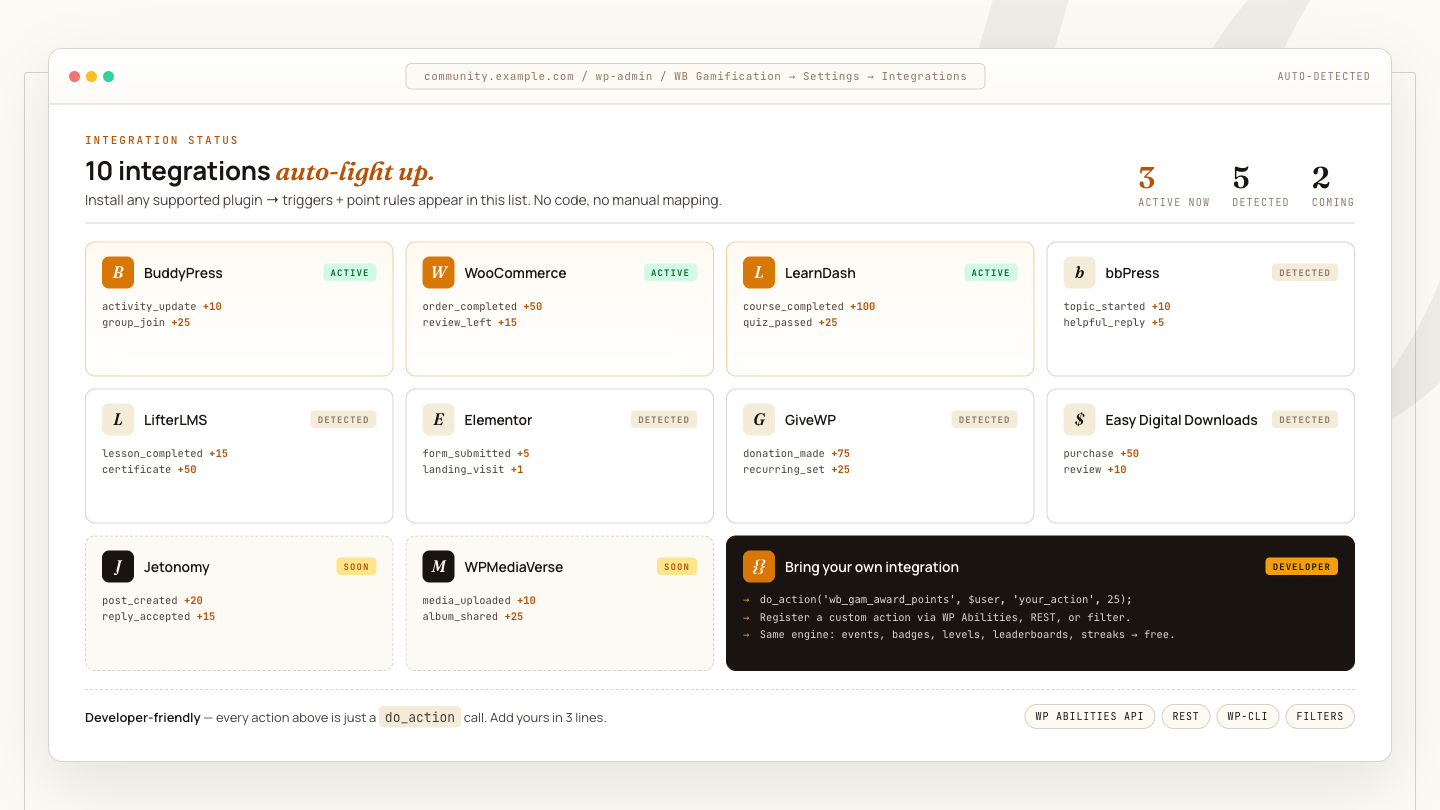
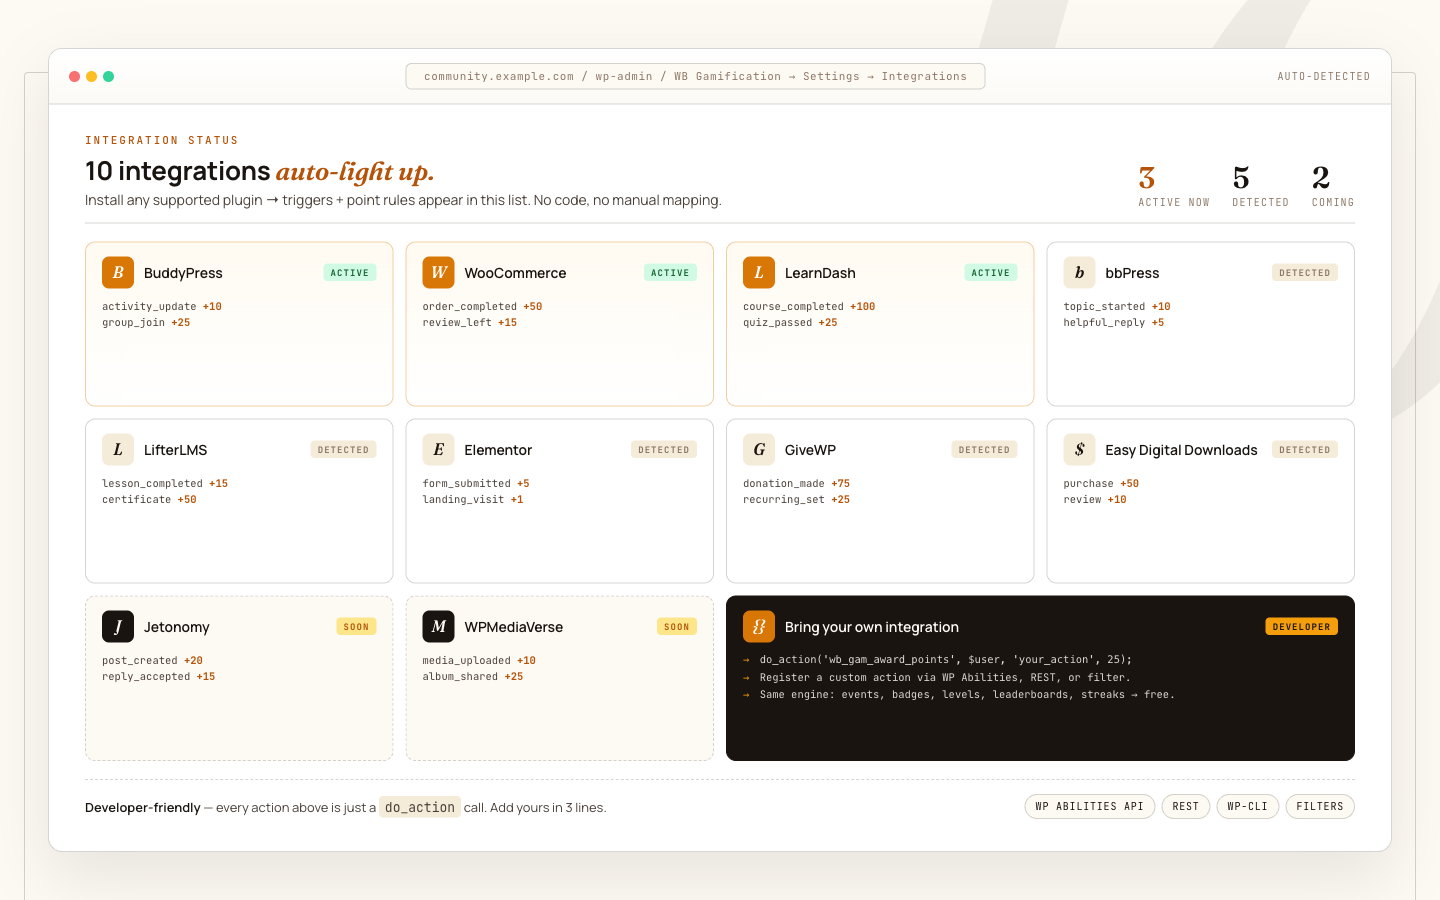
marketing: integrations spotlight fills 1440x900 slot natively
Earlier render captured at 1440x900 viewport but body was sized 810,
leaving a 90px paper-colored band below the window. Resized the body
to 900 and pinned a min-height on the window so it fills the slot's
native 8:5 aspect — no whitespace below the cards.

diff --git a/marketing/07-brand-assets/store-heroes/integrations.html b/marketing/07-brand-assets/store-heroes/integrations.html
@@ -14,7 +14,13 @@
 
 body {
 	background: var(--paper);
+	width: 1440px;
+	height: 900px;
 }
+
+/* Override _shared.css default body sizing so the composition fills the
+   spotlight slot's native 8:5 aspect (1440 × 900) — the previous 810
+   height left a 90px paper-colored band below the window. */
 
 /* Window chrome */
 .window {
@@ -23,6 +29,7 @@ body {
 	width: calc(100% - 96px);
 	margin: 48px;
 	height: calc(100% - 96px);
+	min-height: 804px;
 	background: #fff;
 	border: 1px solid var(--frame);
 	border-radius: 14px;